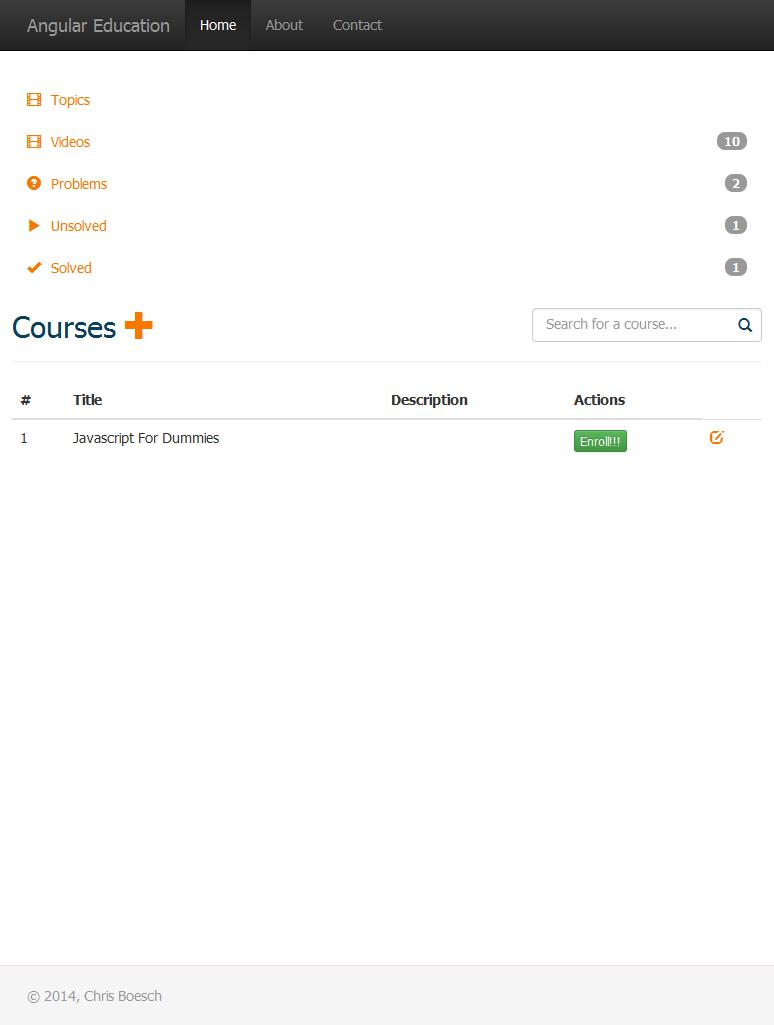
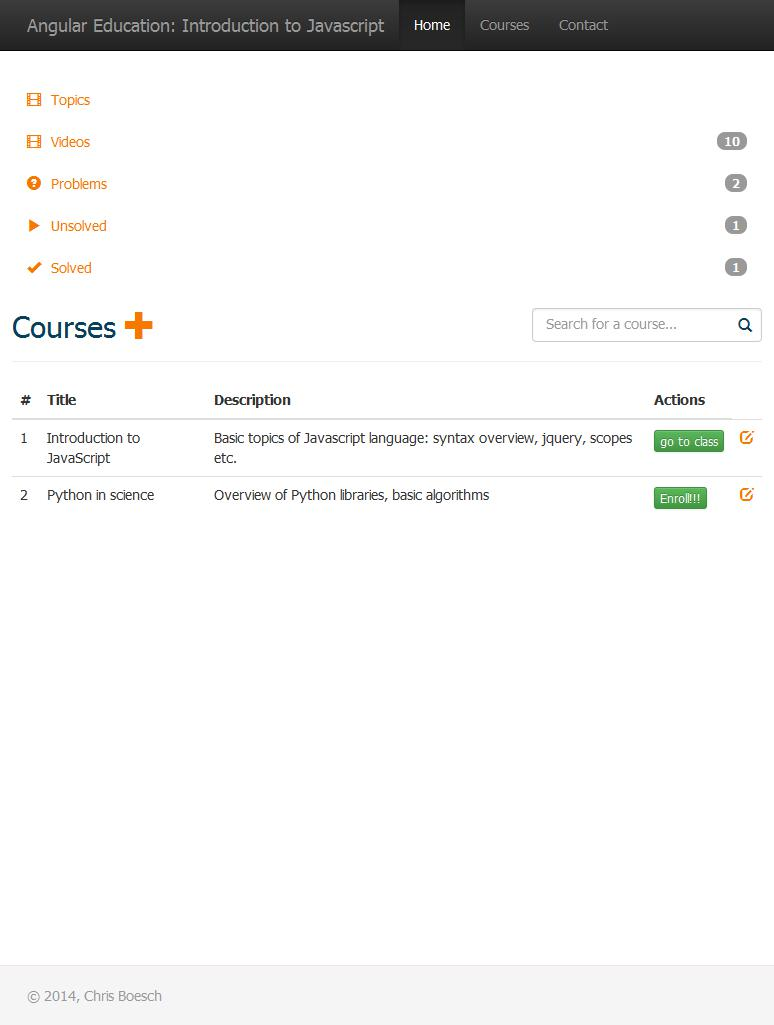
chore(ui): course name to page caption
screenshots updated

diff --git a/app/index.html b/app/index.html
@@ -1,5 +1,5 @@
 <!DOCTYPE html>
-<html lang="en" data-ng-app="myApp">
+<html lang="en" >
 <head>
     <title>Angular Education</title>
     <meta name="viewport" content="width=device-width, initial-scale=1.0">
@@ -12,7 +12,7 @@
     <script src="https://oss.maxcdn.com/libs/respond.js/1.3.0/respond.min.js"></script>
     <![endif]-->
 </head>
-<body>
+<body data-ng-app="myApp">
 
 <div id="wrap">
     <header class="navbar navbar-inverse navbar-fixed-top edu-navbar" role="navigation">
@@ -24,12 +24,12 @@
                     <span class="icon-bar"></span>
                     <span class="icon-bar"></span>
                 </button>
-                <a class="navbar-brand" href="#">Angular Education</a>
+                <a class="navbar-brand" href="#">Angular Education: Introduction to Javascript</a>
             </div>
             <div class="collapse navbar-collapse">
                 <ul class="nav navbar-nav">
                     <li class="active"><a href="#">Home</a></li>
-                    <li><a href="#about">About</a></li>
+                    <li><a href="#/courses">Courses</a></li>
                     <li><a href="#contact">Contact</a></li>
                 </ul>
             </div>

diff --git a/app/templates/courses.html b/app/templates/courses.html
@@ -3,7 +3,6 @@
         <div class="col-sm-8 col-md-8">
             Courses
             <a href="#/courses/create" title="Create" tooltip><span class="glyphicon glyphicon-plus"></span></a>
-
         </div>
         <div class="col-sm-4 col-md-4">
             <form role="search">
@@ -35,7 +34,7 @@
                 </button>
             </td>
             <td>
-                <a href="#/topics/{{course.id}}/edit" title="Edit" tooltip><span class="glyphicon glyphicon-edit"></span></a>
+                <a href="#/courses/{{course.id}}/edit" title="Edit" tooltip><span class="glyphicon glyphicon-edit"></span></a>
             </td>
         </tr>
     </tbody>
